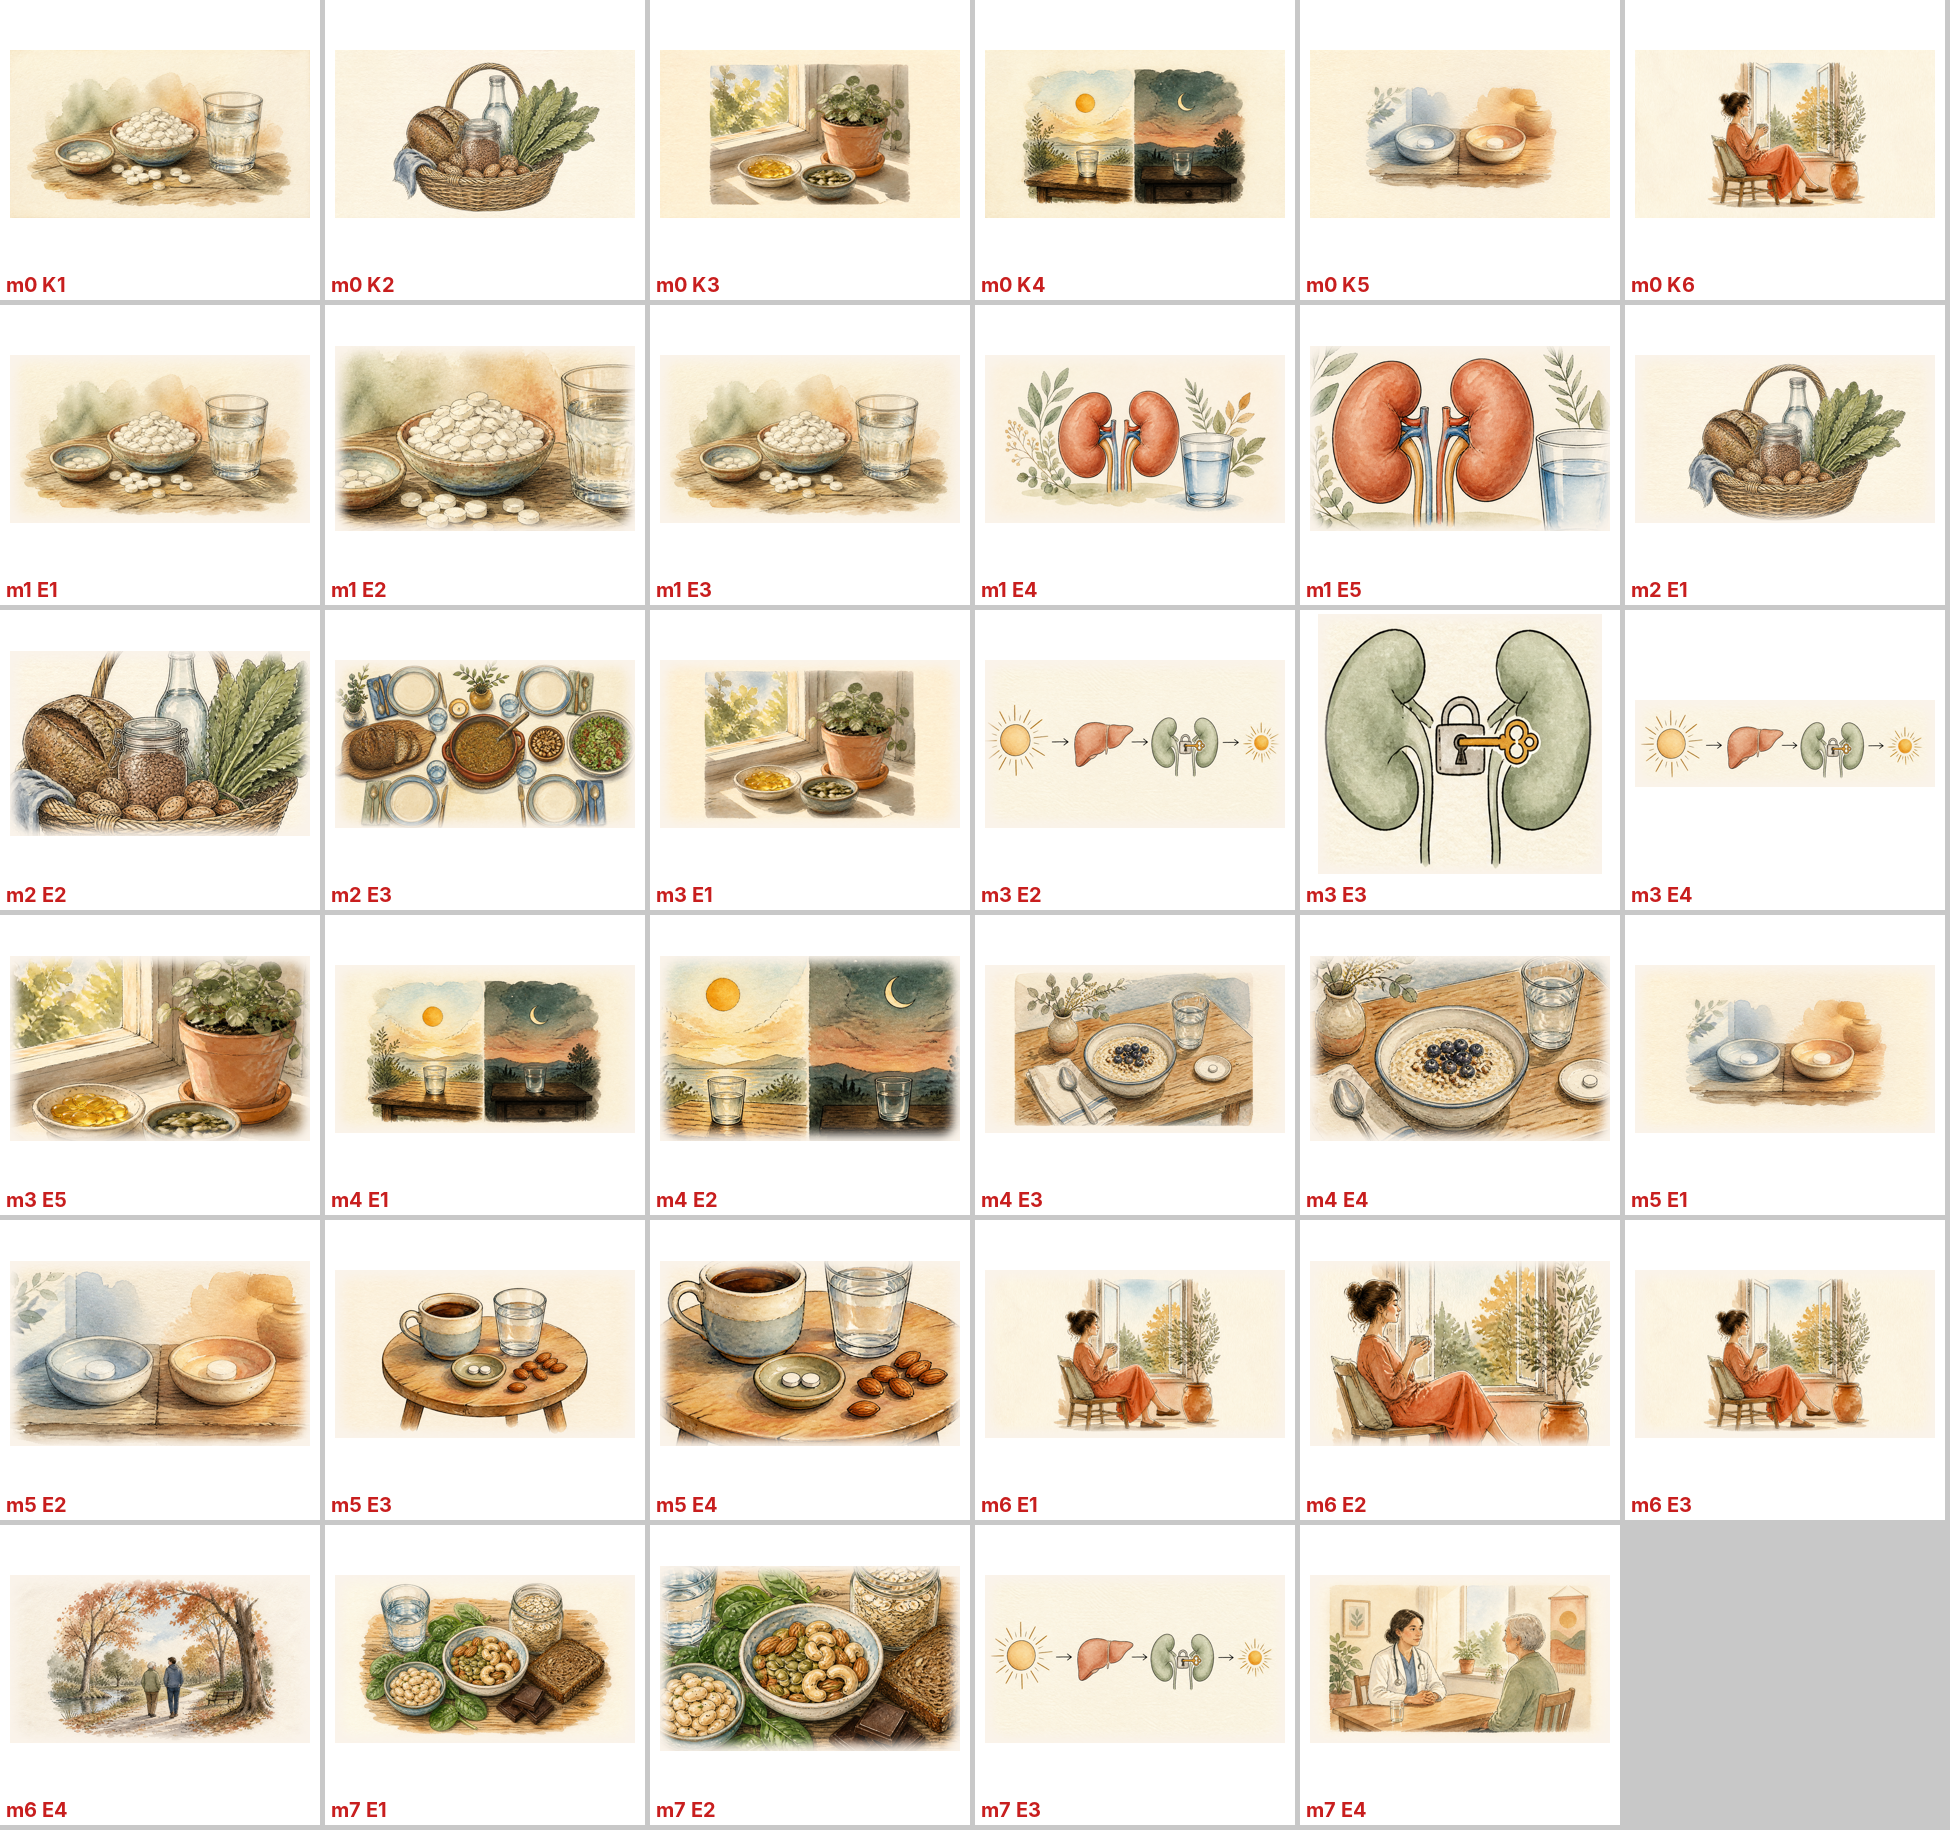
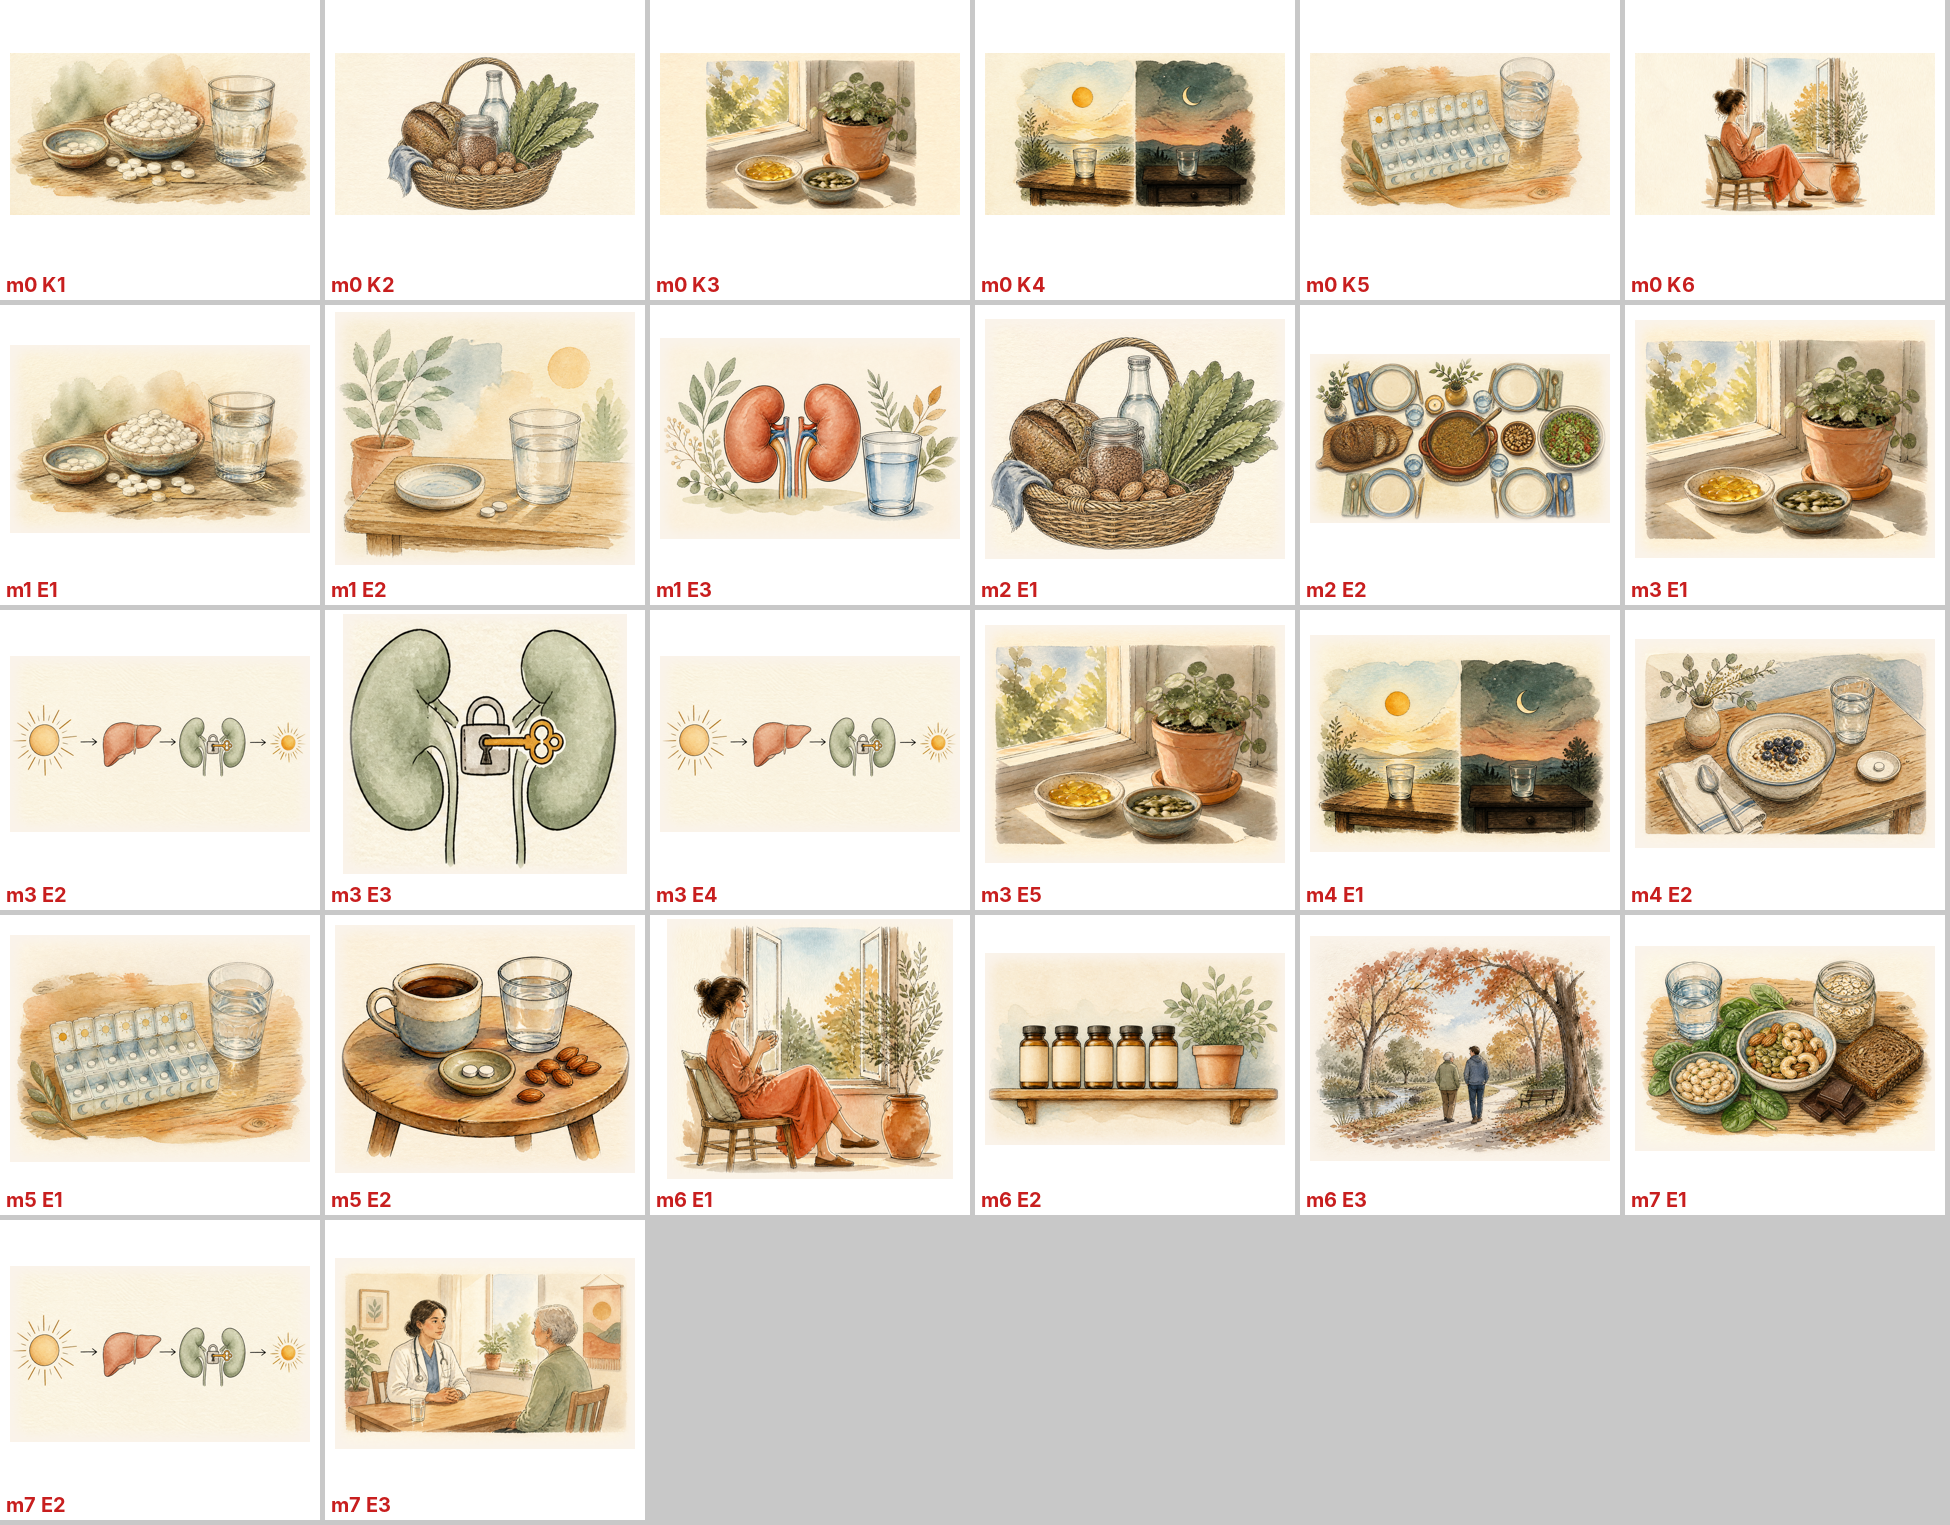
Renderer: Motiv automatisch freistellen, langsamer Zoom statt Detail-Sprüngen; Betonungsfilter aus dem Seneca-Projekt; Magnesium 2: Tablettenbox, zwei Zusatzbilder
Claude-Session: https://claude.ai/code/session_01LHRCLt6oERYypEBxHbZ7Vi

diff --git a/werkzeug/betonung.py b/werkzeug/betonung.py
@@ -1,0 +1,103 @@
+#!/usr/bin/env python3
+"""Betonungs-Vorfilter fuer die Szenen-Aufnahmen: python3 betonung.py szenen.json [--abstand 5]
+
+Verfahren aus dem Seneca-Hoerspiel (seneca-audio/werkzeuge/betonung.py): Tonhoehengipfel je Wort (Praat), markiert,
+wenn der hoechste Gipfel eines Sprechabschnitts auf einem Funktionswort liegt, nicht am Abschnittsanfang, und mindestens
+--abstand Halbtoene ueber dem hoechsten Inhaltswort. Wortzeiten kommen hier aus den ElevenLabs-Zeitmarken im tts_cache.
+Schwelle 5 HT war fuer die Stimme Helmut geeicht; fuer Christian an gemeldeten Fehlern nachpruefen.
+Ersetzt das Ohr nicht: Kontrastbetonung ist richtig und wird trotzdem markiert.
+"""
+import base64, glob, json, os, re, subprocess, sys, tempfile
+import numpy as np
+import parselmouth
+
+FUNKTION = set("""
+der die das den dem des ein eine einen einem einer eines
+ich du er sie es wir ihr uns euch mich dich sich mir dir ihm ihn ihnen man
+mein meine meinen meinem meiner meines dein deine deinen deinem deiner deines sein seine seinen seinem seiner seines
+ihre ihren ihrem ihrer ihres unser unsere unseren unserem unserer unseres euer eure euren eurem eurer
+an am auf aus bei beim bis durch für gegen hinter in im ins mit nach neben ohne seit über um unter von vom vor zu zum zur
+zwischen wegen
+und oder aber denn dass wenn als wie ob weil doch sondern sowie
+ist sind war waren wird werden wurde wurden hat haben hatte hatten sei seien wäre wären bin bist seid habe hast
+würde würden kann können muss müssen soll sollen will wollen darf dürfen
+""".split())
+ENDE = tuple(",.;:!?–")
+norm = lambda w: re.sub(r"[^a-zäöüß]", "", w.lower())
+
+
+def woerter(al):
+    """Woerter mit Start/Ende aus der Zeichen-Ausrichtung."""
+    ch, s, e = al['characters'], al['character_start_times_seconds'], al['character_end_times_seconds']
+    W, cur = [], None
+    for c, a, b in zip(ch, s, e):
+        if c.isspace():
+            if cur: W.append(cur); cur = None
+            continue
+        if cur is None: cur = {'w': '', 's': a, 'e': b}
+        cur['w'] += c; cur['e'] = b
+    if cur: W.append(cur)
+    return W
+
+
+def pruefe(mp3, W, abstand):
+    with tempfile.TemporaryDirectory() as d:
+        wav = os.path.join(d, 't.wav')
+        subprocess.run(['ffmpeg', '-nostdin', '-y', '-loglevel', 'error', '-i', mp3, '-ac', '1', wav], check=True)
+        p = parselmouth.Sound(wav).to_pitch_ac(time_step=0.01, pitch_floor=60, pitch_ceiling=260)
+    f0, t = p.selected_array['frequency'], p.xs()
+    med = np.median(f0[f0 > 0])
+    G = []
+    for w in W:
+        f = f0[(t >= w['s']) & (t <= w['e']) & (f0 > 0)]
+        G.append(float(np.quantile(12 * np.log2(f / med), 0.95)) if len(f) >= 3 else None)
+    A, jetzt = [], []
+    for i, w in enumerate(W):
+        jetzt.append(i)
+        if w['w'].rstrip('“”»«"\'').endswith(ENDE) or i == len(W) - 1:
+            A.append(jetzt); jetzt = []
+    erg = []
+    for a in A:
+        g = [(i, G[i]) for i in a if G[i] is not None]
+        if len(g) < 3: continue
+        top = max(g, key=lambda x: x[1])[0]
+        inhalt = [x for i, x in g if norm(W[i]['w']) not in FUNKTION]
+        dd = G[top] - max(inhalt) if inhalt else float('inf')
+        erg.append({'von': W[a[0]]['s'], 'woerter': [W[i]['w'] for i in a], 'pos': a.index(top), 'abstand': dd,
+                    'funktion': norm(W[top]['w']) in FUNKTION and top != a[0]})
+    return erg
+
+
+def main():
+    args = sys.argv[1:]
+    abstand = 5.0
+    if '--abstand' in args:
+        i = args.index('--abstand'); abstand = float(args[i + 1]); del args[i:i + 2]
+    basis = os.path.dirname(os.path.abspath(args[0]))
+    cfg = json.load(open(args[0], encoding='utf-8'))
+    zp = os.path.join(basis, 'video_zeitplan.json')
+    v0 = {z['id']: z['v0'] for z in json.load(open(zp))} if os.path.exists(zp) else {}
+    texte = {sc['id']: ' '.join(s if isinstance(s, str) else s.get('say', s['t']) for s in sc['sentences']) for sc in cfg['scenes']}
+    n = knapp = 0
+    for f in sorted(glob.glob(os.path.join(basis, 'tts_cache', '*.json'))):
+        d = json.load(open(f))
+        al = d.get('alignment')
+        if not al: continue
+        txt = ''.join(al['characters'])
+        sid = next((k for k, v in texte.items() if v.strip() == txt.strip()), None)
+        if sid is None: continue
+        with tempfile.NamedTemporaryFile(suffix='.mp3') as tmp:
+            tmp.write(base64.b64decode(d['audio_base64'])); tmp.flush()
+            for e in pruefe(tmp.name, woerter(al), abstand):
+                if not e['funktion']: continue
+                satz = ' '.join(w.upper() if j == e['pos'] else w for j, w in enumerate(e['woerter']))
+                tv = v0.get(sid, 0) + e['von'] + 1.0
+                if e['abstand'] >= abstand:
+                    n += 1; print(f"{sid}  ~{int(tv // 60)}:{int(tv % 60):02d}  +{e['abstand']:.1f} HT  {satz}")
+                elif e['abstand'] >= 3:
+                    knapp += 1; print(f"  (knapp) {sid}  ~{int(tv // 60)}:{int(tv % 60):02d}  +{e['abstand']:.1f} HT  {satz}")
+    print(f'{n} markiert (≥ {abstand} HT), {knapp} knapp darunter (3–{abstand} HT). Zeiten ≈ Videozeit.')
+
+
+if __name__ == '__main__':
+    main()

diff --git a/werkzeug/render.py b/werkzeug/render.py
@@ -399,15 +399,39 @@ BILD_DIR = '.'
 _bilder = {}
 
 
-def quelle(obj, src):
+def motiv_box(img, aspect):
+    """Motiv ohne Papierrand finden und auf das Seitenverhaeltnis des Zielfelds erweitern (so gross wie moeglich)."""
+    g = np.asarray(img.convert('L').resize((img.size[0] // 8, img.size[1] // 8)), dtype=np.float32)
+    papier = np.median(np.concatenate([g[:4].ravel(), g[-4:].ravel(), g[:, :4].ravel(), g[:, -4:].ravel()]))
+    ys, xs = np.nonzero(np.abs(g - papier) > 18)
+    if len(xs) < 50:
+        return [0, 0, img.size[0], img.size[1]]
+    x0, x1 = np.percentile(xs, [0.5, 99.5]) * 8
+    y0, y1 = np.percentile(ys, [0.5, 99.5]) * 8
+    pad = 0.04 * max(x1 - x0, y1 - y0)
+    x0, y0, x1, y1 = x0 - pad, y0 - pad, x1 + pad, y1 + pad
+    w, h = x1 - x0, y1 - y0
+    if w / h < aspect:
+        w = min(h * aspect, img.size[0])
+    else:
+        h = min(w / aspect, img.size[1])
+    cx, cy = (x0 + x1) / 2, (y0 + y1) / 2
+    cx = min(max(cx, w / 2), img.size[0] - w / 2)
+    cy = min(max(cy, h / 2), img.size[1] - h / 2)
+    return [cx - w / 2, cy - h / 2, cx + w / 2, cy + h / 2]
+
+
+def quelle(obj, src, aspect=None):
     """Bildquelle eines Ausschnitts/einer Kachel: eigenes Bild (`bild`, relativ zum Drehbuch) oder die Grafik.
-    Ohne `a` gilt das ganze Bild."""
+    Ohne `a` bei eigenen Bildern: Motiv automatisch freigestellt, passend zum Zielfeld."""
     img = src
     if obj.get('bild'):
         pfad = os.path.join(BILD_DIR, obj['bild'])
         if pfad not in _bilder:
             _bilder[pfad] = Image.open(pfad).convert('RGB')
         img = _bilder[pfad]
+        if not obj.get('a'):
+            return img, motiv_box(img, aspect or (PIC[2] - PIC[0]) / (PIC[3] - PIC[1]))
     a = obj.get('a') or [0, 0, img.size[0], img.size[1]]
     return img, a
 
@@ -432,7 +456,13 @@ class Scene:
         for j, sh in enumerate(sc['shots']):
             t0 = sc['v0'] if j == 0 else st[sh['at']][0] - 0.35
             img, a0 = quelle(sh, src)
-            size, a, b = fit_box(a0, a0 if sh.get('zoom') == 'none' else sh.get('b'), img.size)
+            b0 = sh.get('b')
+            if isinstance(sh.get('zoom'), (int, float)):      # z. B. 0.2 = langsam 20 % hinein
+                z = 1 - sh['zoom']
+                cx, cy = (a0[0] + a0[2]) / 2, (a0[1] + a0[3]) / 2
+                hw, hh = (a0[2] - a0[0]) * z / 2, (a0[3] - a0[1]) * z / 2
+                b0 = [cx - hw, cy - hh, cx + hw, cy + hh]
+            size, a, b = fit_box(a0, a0 if sh.get('zoom') == 'none' else b0, img.size)
             if sh.get('zoom') == 'out':
                 a, b = b, a
             self.shots.append({'t0': t0, 'size': size, 'a': a, 'b': b, 'img': img})
@@ -505,7 +535,7 @@ class AgendaScene:
             d.ellipse([cx + 18, cy + self.TH + 8, cx + 58, cy + self.TH + 48], fill=ACCENT)
             d.text((cx + 38, cy + self.TH + 28), str(i + 1), font=font(INTER.format('Bold'), 24), fill='white', anchor='mm')
             d.text((cx + 72, cy + self.TH + 28), k['t'], font=font(INTER.format('SemiBold'), 30), fill=INK, anchor='lm')
-            kimg, box = quelle(k, src)
+            kimg, box = quelle(k, src, (self.TW - 40) / (self.TH - 30))
             bw, bh = box[2] - box[0], box[3] - box[1]
             sc_ = min((self.TW - 40) / bw, (self.TH - 30) / bh)
             size = (int(bw * sc_), int(bh * sc_))

diff --git a/werkzeug/ausschnitte_pruefen.py b/werkzeug/ausschnitte_pruefen.py
@@ -1,5 +1,5 @@
 #!/usr/bin/env python3
-"""Kontaktbogen aller Bildausschnitte im engsten Zoom. Aufruf: python3 ausschnitte_pruefen.py szenen.json bogen.png [grafik.png]"""
+"""Kontaktbogen aller Bildausschnitte (weitester Zoom, wie zu Beginn der Einstellung). Aufruf: python3 ausschnitte_pruefen.py szenen.json bogen.png [grafik.png]"""
 import sys, json
 import os; sys.path.insert(0, os.path.dirname(os.path.abspath(__file__)))
 import render as R
@@ -12,14 +12,19 @@ for sc in cfg['scenes']:
     items = []
     if sc.get('layout') == 'kacheln':
         for j, k in enumerate(sc['kacheln']):
-            img, a = R.quelle(k, src)
+            img, a = R.quelle(k, src, 500 / 270)
             items.append((f"{sc['id']} K{j+1}", a, None, None, img))
     for j, sh in enumerate(sc.get('shots', [])):
         img, a0 = R.quelle(sh, src)
-        size, a, b = R.fit_box(a0, a0 if sh.get('zoom') == 'none' else sh.get('b'), img.size)
+        b0 = sh.get('b')
+        if isinstance(sh.get('zoom'), (int, float)):
+            z = 1 - sh['zoom']; cx, cy = (a0[0] + a0[2]) / 2, (a0[1] + a0[3]) / 2
+            hw, hh = (a0[2] - a0[0]) * z / 2, (a0[3] - a0[1]) * z / 2
+            b0 = [cx - hw, cy - hh, cx + hw, cy + hh]
+        size, a, b = R.fit_box(a0, a0 if sh.get('zoom') == 'none' else b0, img.size)
         if sh.get('zoom') == 'out':
             a, b = b, a
-        tight = min((a, b), key=lambda x: (x[2]-x[0]) * (x[3]-x[1]))
+        tight = max((a, b), key=lambda x: (x[2]-x[0]) * (x[3]-x[1]))
         items.append((f"{sc['id']} E{j+1}", tight, size, sh, img))
     for name, box, size, sh, img in items:
         bw, bh = box[2]-box[0], box[3]-box[1]
